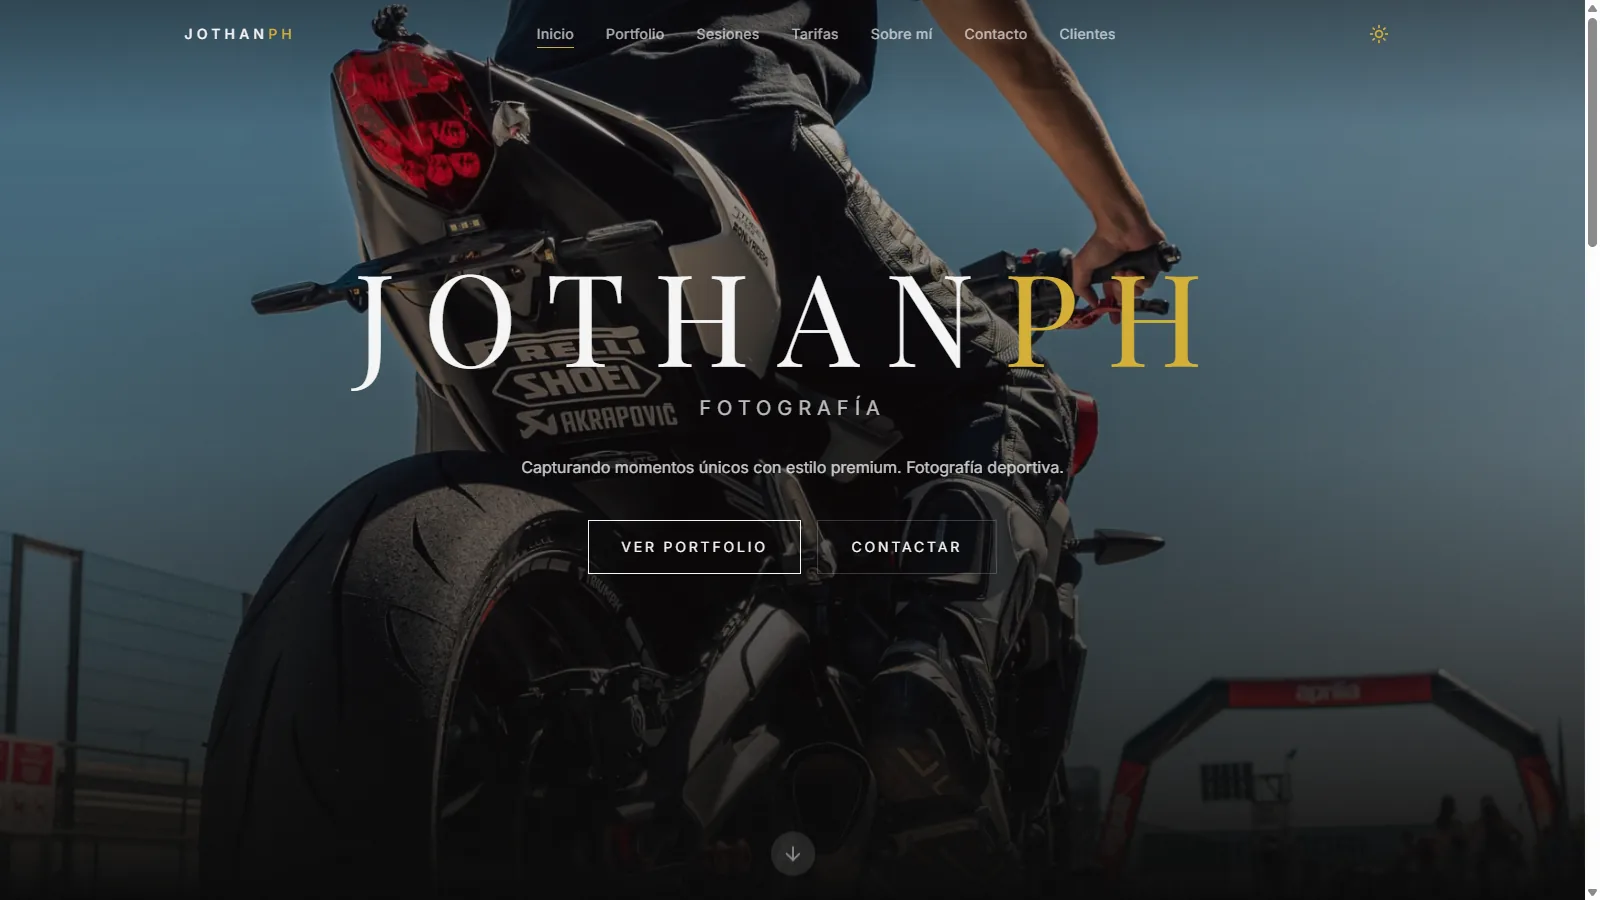
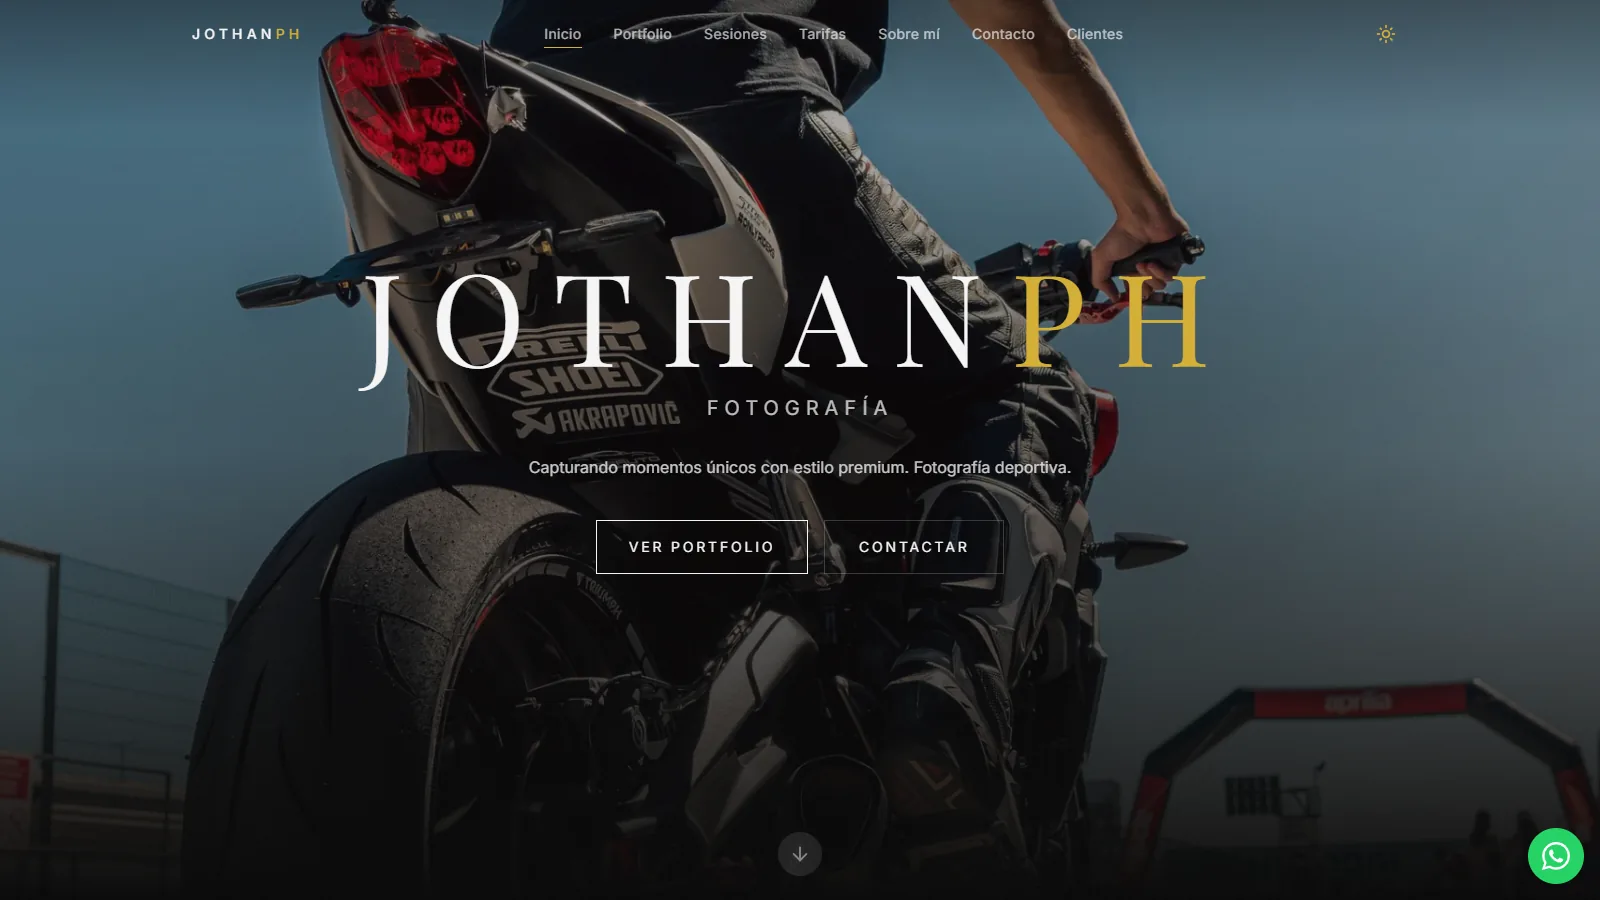
JothanPh Fotografía: web publicada con enlace en vivo

diff --git a/data/proyectos.ts b/data/proyectos.ts
@@ -72,26 +72,28 @@ export const proyectos: Proyecto[] = [
       "Web de un fotógrafo de Madrid, con área de clientes, sesiones privadas y panel de administración.",
     imagen: "/proyectos/jothanph-portada.webp",
     encuadre: "captura",
-    pieImagen: "Página de inicio, funcionando en local.",
-    estado: "En desarrollo · funciona en local",
-    estadoCorto: "En desarrollo",
-    marca: "obras",
+    pieImagen: "Página de inicio de la web publicada.",
+    estado: "Publicada · servidor propio",
+    estadoCorto: "Publicada",
+    marca: "servicio",
     objetivo:
-      "Construir la web de un fotógrafo de Madrid (el negocio de mi hermano) y llevarla a un estado en el que pueda usarse de verdad.",
+      "Construir la web de un fotógrafo de Madrid (el negocio de mi hermano) y ponerla en marcha para que la use de verdad con sus clientes.",
     como: [
       "Hecha con Next.js (React) y TypeScript, con SQLite (Drizzle) para los datos y NextAuth para el inicio de sesión.",
-      "Incluye portfolio de fotos, agenda de sesiones con pedidos de fotos, área de clientes con login, sesiones privadas visibles solo para el cliente con permiso, reseñas y un panel de administración con cobros y estadísticas.",
-      "Tiene más de 450 tests automáticos y está preparada para desplegarse con Docker.",
+      "Incluye portfolio de fotos, agenda de sesiones con pedidos de fotos, área de clientes con login, sesiones privadas visibles solo para el cliente con permiso, reseñas, avisos al móvil y un panel de administración con cobros y estadísticas.",
+      "Las fotos se publican con marca de agua; el cliente recibe los originales al comprarlas.",
+      "Publicada en un servidor VPS propio (Linux) con Docker y HTTPS, copias de seguridad diarias cifradas y un vigilante externo que avisa si la web deja de responder.",
+      "Más de 540 tests automáticos y una prueba de carga en el servidor con 100 clientes simultáneos, sin errores.",
     ],
     estadoDetalle: [
-      "Todas las funcionalidades funcionan en local.",
-      "Pendiente: cargar las fotos y los datos reales, y desplegarla en un servidor.",
+      "Publicada y funcionando, ya con sesiones de fotos reales.",
+      "Está en una dirección provisional; el siguiente paso es pasarle el dominio del negocio.",
       "El código es privado.",
     ],
-    tecnologias: ["Next.js", "React", "TypeScript", "Tailwind", "SQLite", "Drizzle", "NextAuth", "Docker"],
-    ia: "Apoyo intensivo de IA en el código.",
-    yo: "Yo defino lo que necesita la web, pruebo cada funcionalidad y reviso el resultado.",
-    enlaces: [],
+    tecnologias: ["Next.js", "React", "TypeScript", "Tailwind", "SQLite", "Drizzle", "NextAuth", "Docker", "Linux (VPS)"],
+    ia: "Apoyo intensivo de IA en el código y en la puesta en marcha del servidor.",
+    yo: "Yo defino lo que necesita la web junto a su usuario real, mi hermano, pruebo cada funcionalidad y reviso el resultado antes de publicarlo.",
+    enlaces: [{ texto: "Ver la web", href: "https://srv2121091.hstgr.cloud/" }],
   },
   {
     slug: "redline-26",

diff --git a/PRODUCT.md b/PRODUCT.md
@@ -29,7 +29,7 @@ Se ve en móvil y en escritorio. Se publica como sitio estático en Netlify (cri
 ## Capabilities and Constraints
 
 - Next.js 15 (export estático), React 19, Tailwind 4, Framer Motion. Sin servidor.
-- Proyectos reales: SafeRouteAI (app Android + API, publicada como APK), web de SafeRouteAI (publicada), JothanPh Fotografía (web completa de su hermano, funciona en local, sin desplegar), REDLINE/26 (web animada sobre el Mundial de MotoGP 2026, publicada en redline-26.netlify.app, con datos oficiales en tiempo real a través de una función de Netlify). Hay además una web hecha para un negocio real que no se muestra hasta tener el permiso del cliente; su ficha está fuera de este repo.
+- Proyectos reales: SafeRouteAI (app Android + API, publicada como APK), web de SafeRouteAI (publicada), JothanPh Fotografía (web completa de su hermano, publicada en un VPS propio con dirección provisional; falta pasarle el dominio), REDLINE/26 (web animada sobre el Mundial de MotoGP 2026, publicada en redline-26.netlify.app, con datos oficiales en tiempo real a través de una función de Netlify). Hay además una web hecha para un negocio real que no se muestra hasta tener el permiso del cliente; su ficha está fuera de este repo.
 - Formación: SMR (2021–2023), DAM (2024–2026). Prácticas en el Hospital de Villalba (2023) y en un despacho de abogados (2025).
 
 ## Brand Commitments
